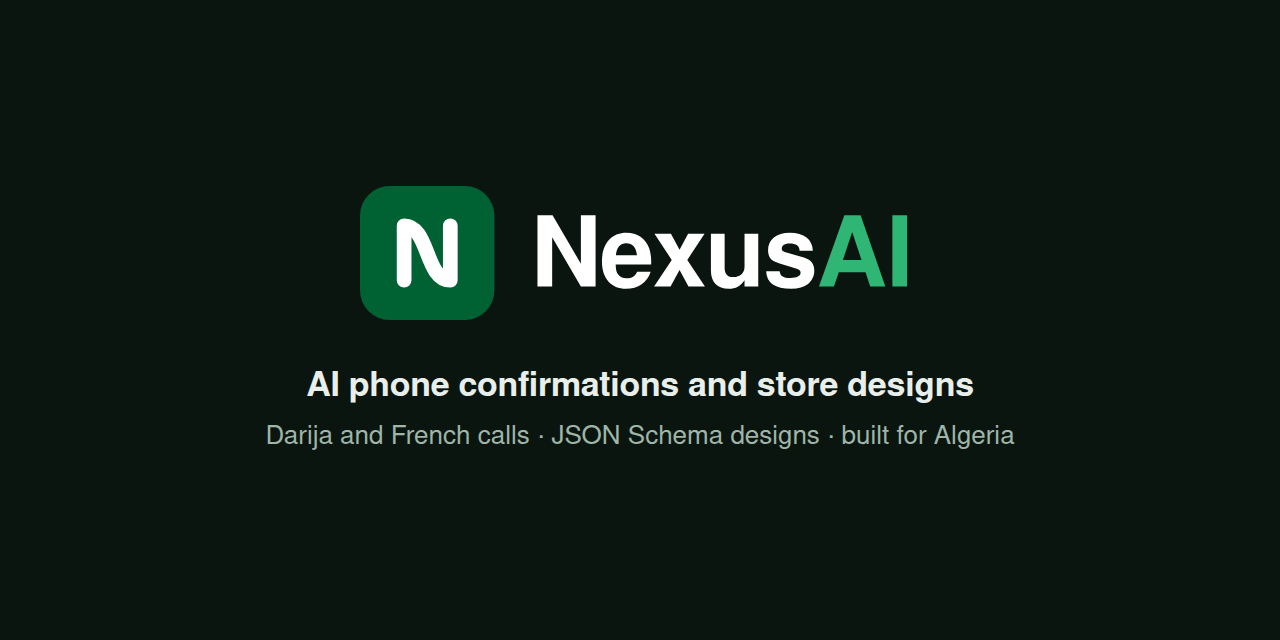
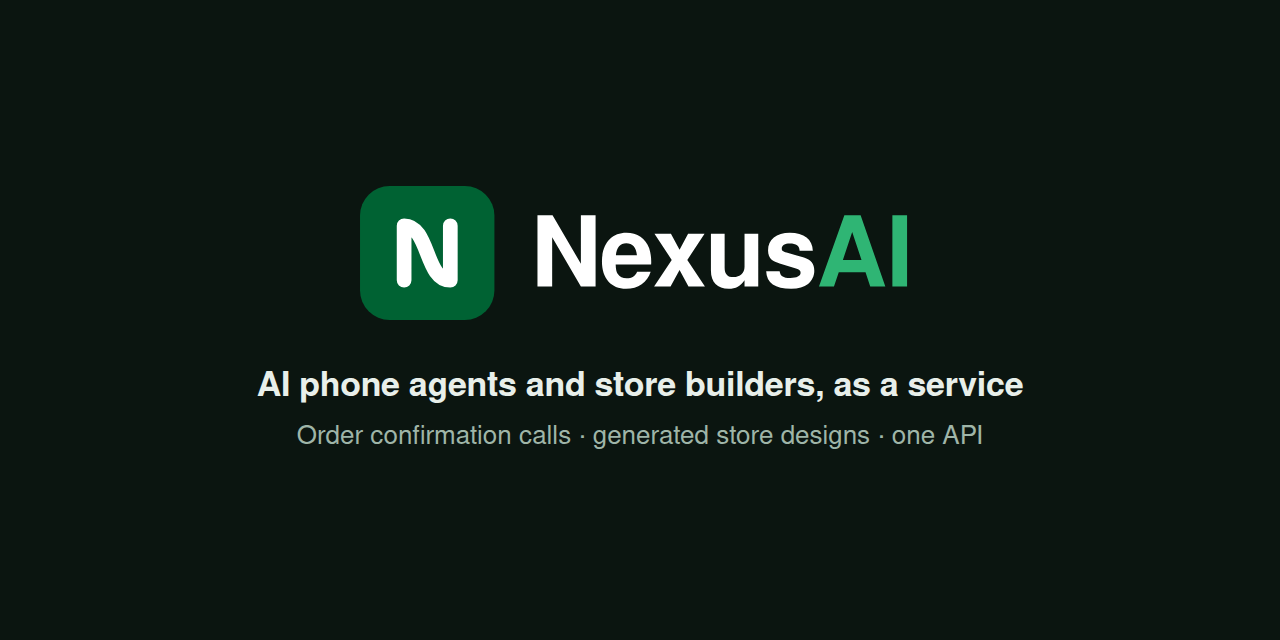
README: a broader introduction and a coverage section

Changed region(s): [[0.1875, 0.6562, 0.7812, 0.7188], [0.1875, 0.5625, 0.8125, 0.625]]

diff --git a/README.md b/README.md
@@ -6,8 +6,7 @@
 </p>
 
 <p align="center">
-  <strong>AI phone confirmations and store designs, as a service for commerce platforms.</strong><br>
-  Built for Algeria: Darija and French on the phone, the 69 wilayas, cash on delivery.
+  <strong>AI services for platforms: phone agents that confirm orders, and builders that design stores.</strong>
 </p>
 
 <p align="center">
@@ -24,12 +23,12 @@
 
 ---
 
-NexusAI is a service that commerce platforms call over HTTPS to hand work to AI. Each platform has its own account, keys and webhook secret, and its own settings for how calls sound. NexusAI keeps only what the work needs, for as long as it needs it.
+NexusAI is a service that platforms call over HTTPS to hand work to AI. Each platform has its own account, keys and webhook secret, and its own settings for how calls sound. NexusAI keeps only what the work needs, for as long as it needs it.
 
 ## Features
 
-- **Order confirmation calls.** NexusAI phones the customer of a cash-on-delivery order, talks with them in Algerian Darija or French, and sends the platform what they decided: confirmed, cancelled, a new delivery place, call me later, and more.
-- **Checks the code enforces.** A confirmation or a change of place needs the customer's own yes; a new place must be one of the 1,541 communes the agent looked up and said back.
+- **Order confirmation calls.** An AI agent phones the customer, talks through their order, and sends the platform what they decided: confirmed, cancelled, a new delivery place, call me later, and more.
+- **Checks the code enforces.** A confirmation or a change of place needs the customer's own yes, and a new place must be one the agent looked up and said back.
 - **Four voice models behind one interface,** chosen per account: Gemini 3.8 Live, GPT Realtime 2.1 and its mini, and GPT-Live. Each call records its model, its answered seconds and its cost.
 - **Store designs.** A platform sends the parts a page may use as a JSON Schema, with a brief and photos, and gets back a design that matches it, with generated banners. In tests a design took 25 to 60 seconds and cost under 11 US cents.
 - **Built to be trusted with calls.** Nothing is dialed unless calls are switched on, and only numbers on an allow list; every result is signed; tasks are deleted after 30 days and no audio is kept.
@@ -51,6 +50,7 @@ NexusAI is a service that commerce platforms call over HTTPS to hand work to AI.
 ## Contents
 
 - [How it works](#how-it-works)
+- [Current coverage](#current-coverage)
 - [Repository layout](#repository-layout)
 - [Getting started](#getting-started)
 - [Configuration](#configuration)
@@ -98,10 +98,10 @@ flowchart TB
 
 ### A confirmation call
 
-1. The platform sends a task (`POST /v1/tasks`). It is due two minutes later, inside call hours (09:00 to 20:00, Algiers time).
+1. The platform sends a task (`POST /v1/tasks`). It is due two minutes later, inside call hours.
 2. Before each call, the worker asks the platform whether the call is still wanted, so a call never follows a confirmation made meanwhile.
 3. The voice app dials through Asterisk on the least busy registered line. It dials nothing unless calls are switched on, and only numbers on an allow list.
-4. The voice model holds the conversation. It reads the order, listens, looks up any wilaya and commune it hears among the 69 wilayas and 1,541 communes, and ends with one outcome. The code checks the agreement: a confirmation or a new place needs the customer's own yes.
+4. The voice model holds the conversation. It reads the order, listens, looks up any delivery place it hears, and ends with one outcome. The code checks the agreement: a confirmation or a new place needs the customer's own yes.
 5. The worker sends the result to the platform, signed, and schedules another try when nobody answered (three tries at most).
 
 Four voice models are supported behind one interface, chosen per account: `gemini-3.8-live` (the default), `gpt-realtime-2.1`, `gpt-realtime-2.1-mini` and `gpt-live-1`. Each attempt records its model, how long it was answered and what it cost.
@@ -115,6 +115,10 @@ Four voice models are supported behind one interface, chosen per account: `gemin
 
 NexusAI knows nothing about a platform's page sections beyond the schema it receives, so any platform can use it.
 
+## Current coverage
+
+Phone calls currently run in Algeria: Algerian mobile numbers and phone lines, Darija and French, the country's wilayas and communes, totals in dinars, and call hours in Algiers time. Designs are written in Arabic or French. Accounts, keys, signed results, the task queue and the model catalogues aren't tied to a country; another country needs its own lines, number rules, places and languages.
+
 ## Repository layout
 
 | Path                    | What it holds                                                                                        |
@@ -126,7 +130,7 @@ NexusAI knows nothing about a platform's page sections beyond the schema it rece
 | `packages/conversation` | The agent's instruction and its functions                                                            |
 | `packages/core`         | Outcomes, call hours, retries and phone numbers                                                      |
 | `packages/db`           | The database schema and migrations (Kysely)                                                          |
-| `packages/places`       | Algeria's 69 wilayas and 1,541 communes, with fuzzy matching in Arabic and French                    |
+| `packages/places`       | The delivery places the agent can look up, with fuzzy matching                                       |
 | `packages/webhooks`     | Signing and delivering results                                                                       |
 | `deploy`                | The production Compose file, Asterisk's configuration and the release scripts                        |
 | `infra/ansible`         | The playbook that prepares the server                                                                |
@@ -211,7 +215,7 @@ NexusAI calls the platform back twice per call: a check before dialing (`check_u
 ## Security and privacy
 
 - **Keys:** stored hashed, per account, and revocable from the CLI. Webhook payloads are signed with each account's own secret.
-- **Calls:** off unless `CALLS_ENABLED` is `true`, and limited to `ALLOWED_NUMBERS`. Only Algerian mobile numbers are accepted.
+- **Calls:** off unless `CALLS_ENABLED` is `true`, and limited to `ALLOWED_NUMBERS`.
 - **Data kept:** a task holds the store's name, the customer's name, phone and language, the items, the total and the delivery place. Tasks are deleted after 30 days, designs and their images after 7. No call audio is stored, and logs hold no phone numbers or conversation.
 - **Providers:** during a call the customer's voice goes to the active model's provider (Google or OpenAI). Design briefs and photos go to Meta.
 - **Releases:** images are scanned, signed in CI without a key and verified on the server before they run. The server accepts SSH keys only, behind a firewall and fail2ban.
